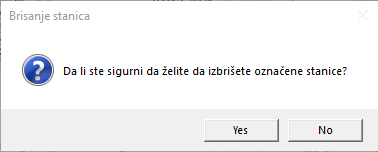
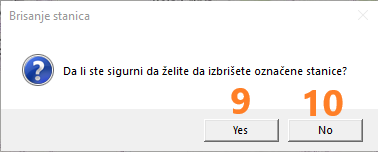
Dodata stranica za pomoć za upravljanje stanicama kod menadžera

Changed region(s): [[0.7857, 0.5789, 0.9312, 0.7632], [0.6111, 0.5789, 0.6693, 0.7632]]

diff --git a/SerbianRailways/SerbianRailways/help_pages/html/managerStationsPage.html b/SerbianRailways/SerbianRailways/help_pages/html/managerStationsPage.html
@@ -13,11 +13,6 @@
 
     <div class="sidebar">
         <img class="sidebar-img" src="../../logo.png" />
-        <!-- <h2>Klijent</h2>
-        <div><a href="clientBuyBookTicket.html">Kupovina i rezervacija karata</a></div>
-        <div><a href="clientTicketsPreviewPage.html">Pregled klijentovih karata</a></div>
-        <div><a href="clientLinesRidesPreview.html">Pregled linija i vožnji</a></div>
-        <div><a href="clientRailwayGridPage.html">Mreža linija</a></div> -->
         <h2>Menadžer</h2>
         <div><a href="managerRidesPage.html">Upravljanje redovima vožnji</a></div>
         <div><a href="managerStationsPage.html">Upravljanje stanicama</a></div>
@@ -30,9 +25,50 @@
         <div>
             <h1>Upravljanje stanicama</h1>
             <p>
-                Lorem ipsum dolor sit amet, consectetur adipisicing elit, sed do eiusmod tempor incididunt ut labore et dolore magna aliqua. Ut enim ad minim veniam, quis nostrud exercitation ullamco laboris nisi ut aliquip ex ea commodo consequat. Lorem ipsum dolor
-                sit amet, consectetur adipisicing elit, sed do eiusmod tempor incididunt ut labore et dolore magna aliqua. Ut enim ad minim veniam, quis nostrud exercitation ullamco laboris nisi ut aliquip ex ea commodo consequat.
+                Stranici za upravljanje stanicama moguće je pristupiti klikom na dugme "Upravljanje stanicama" na glavnoj stranici ili prečicom <em>Alt+S</em>.
             </p>
+
+            <h2>Prikaz stanica</h2>
+            <p>
+                Na mapi koja čini većinu ove stranice, označenoj brojem <span class="number">1</span>, prikazane su lokacije svih postojećih stanica. Sa desne strane mape, u tabeli označenoj sa <span class="number">2</span>, ispisani su nazivi svih stanica.
+            </p>
+            <div class="page-img-div">
+                <img class="page-img" src="img/manager_stations_page/page.png">
+            </div>
+
+            <h2>Dodavanje stanica</h2>
+            <p>
+                Dvoklikom na mapu, na teritoriji Republike Srbije, otvara se prozor za dodavanje stanica, prikazan na slici ispod. U polje obeleženo sa <span class="number">3</span> potrebno je uneti naziv stanice. Zatim se klikom na dugme "Dodaj", obeleženo
+                brojem <span class="number">4</span>, ili prečicom <em>Alt+D</em>, kreira nova stanica. Alternativno, klikom na dugme "Odustani", obeleženo brojem <span class="number">5</span>, ili prečicom <em>Alt+O</em>, se odustaje od operacije.
+            </p>
+            <div class="page-img-div">
+                <img src="img/manager_stations_page/create.png">
+            </div>
+
+            <h2>Izmena stanica</h2>
+            <p>
+                Izmena naziva stanica se može izvršiti klikom na naziv stanice, pri čemu će se pojaviti polje za izmenu vrednosti, kao na primeru označenom sa <span class="number">6</span> na slici ispod. Kada se unese nova vrednost, pritiskom na dugme
+                <em>Enter</em> se čuva izmena.
+            </p>
+            <div class="page-img-div">
+                <img class="page-img" src="img/manager_stations_page/update.png">
+            </div>
+
+            <h2>Brisanje stanica</h2>
+            <p>
+                Da bi se stanica obrisala, potrebno ju je prethodno odabrati, što se vrši klikom na odgovarajući red u tabeli desno. Ovako se može odabrati proizvoljan broj stanica ukoliko se drži dugme <em>Ctrl</em>. Odabrani redovi će biti obeleženi
+                kao na primeru obeleženim sa <span class="number">7</span> na slici ispod.
+            </p>
+            <div class="page-img-div">
+                <img class="page-img" src="img/manager_stations_page/page_selected.png">
+            </div>
+            <p>
+                Zatim je potrebno kliknuti na dugme "Izbriši Stanice", obeleženo iznad sa <span class="number">8</span>, ili iskoristiti prečicu <em>Ctrl+I</em>. Ovim se otvara prozor prikazan na slici ispod. Brisanje stanica se mora potvrditi klikom
+                na dugme "Yes", obeleženo brojem <span class="number">9</span>. Alternativno, klikom na dugme "No", obeleženo sa <span class="number">10</span>, se odustaje od brisanja stanica.
+            </p>
+            <div class="page-img-div">
+                <img src="img/manager_stations_page/delete_confirm.png">
+            </div>
         </div>
 
     </div>
